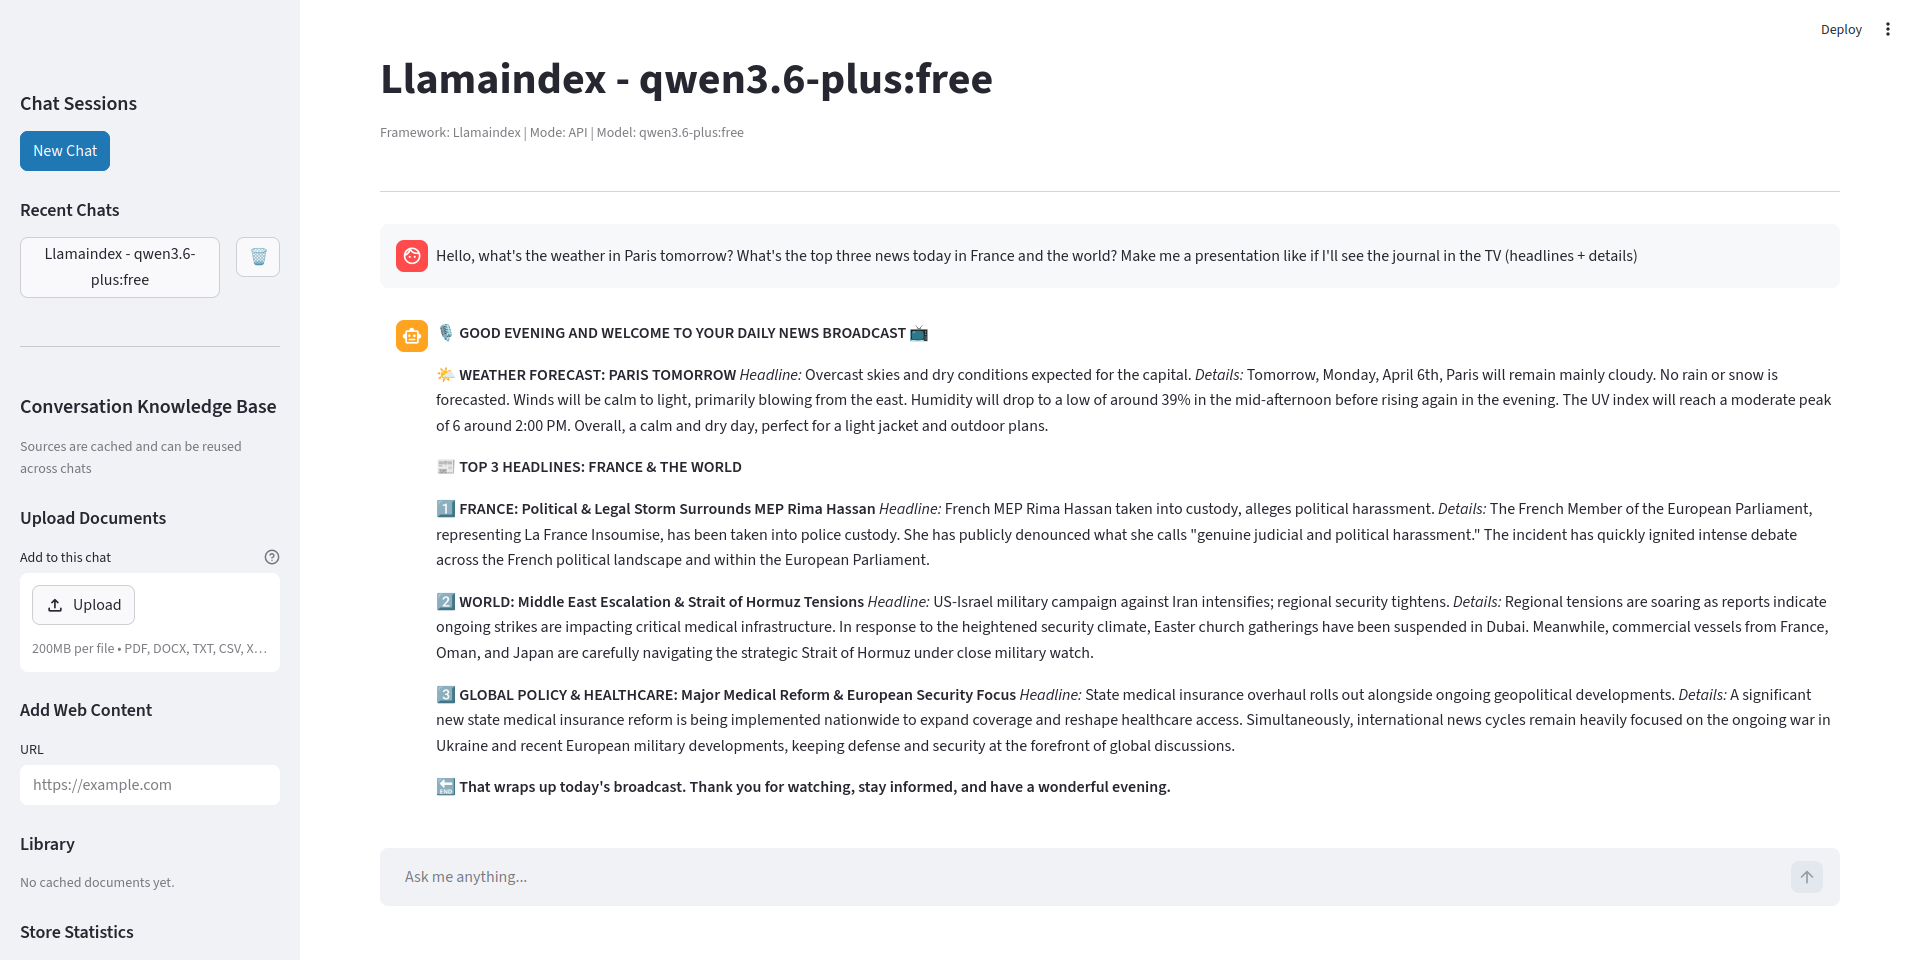
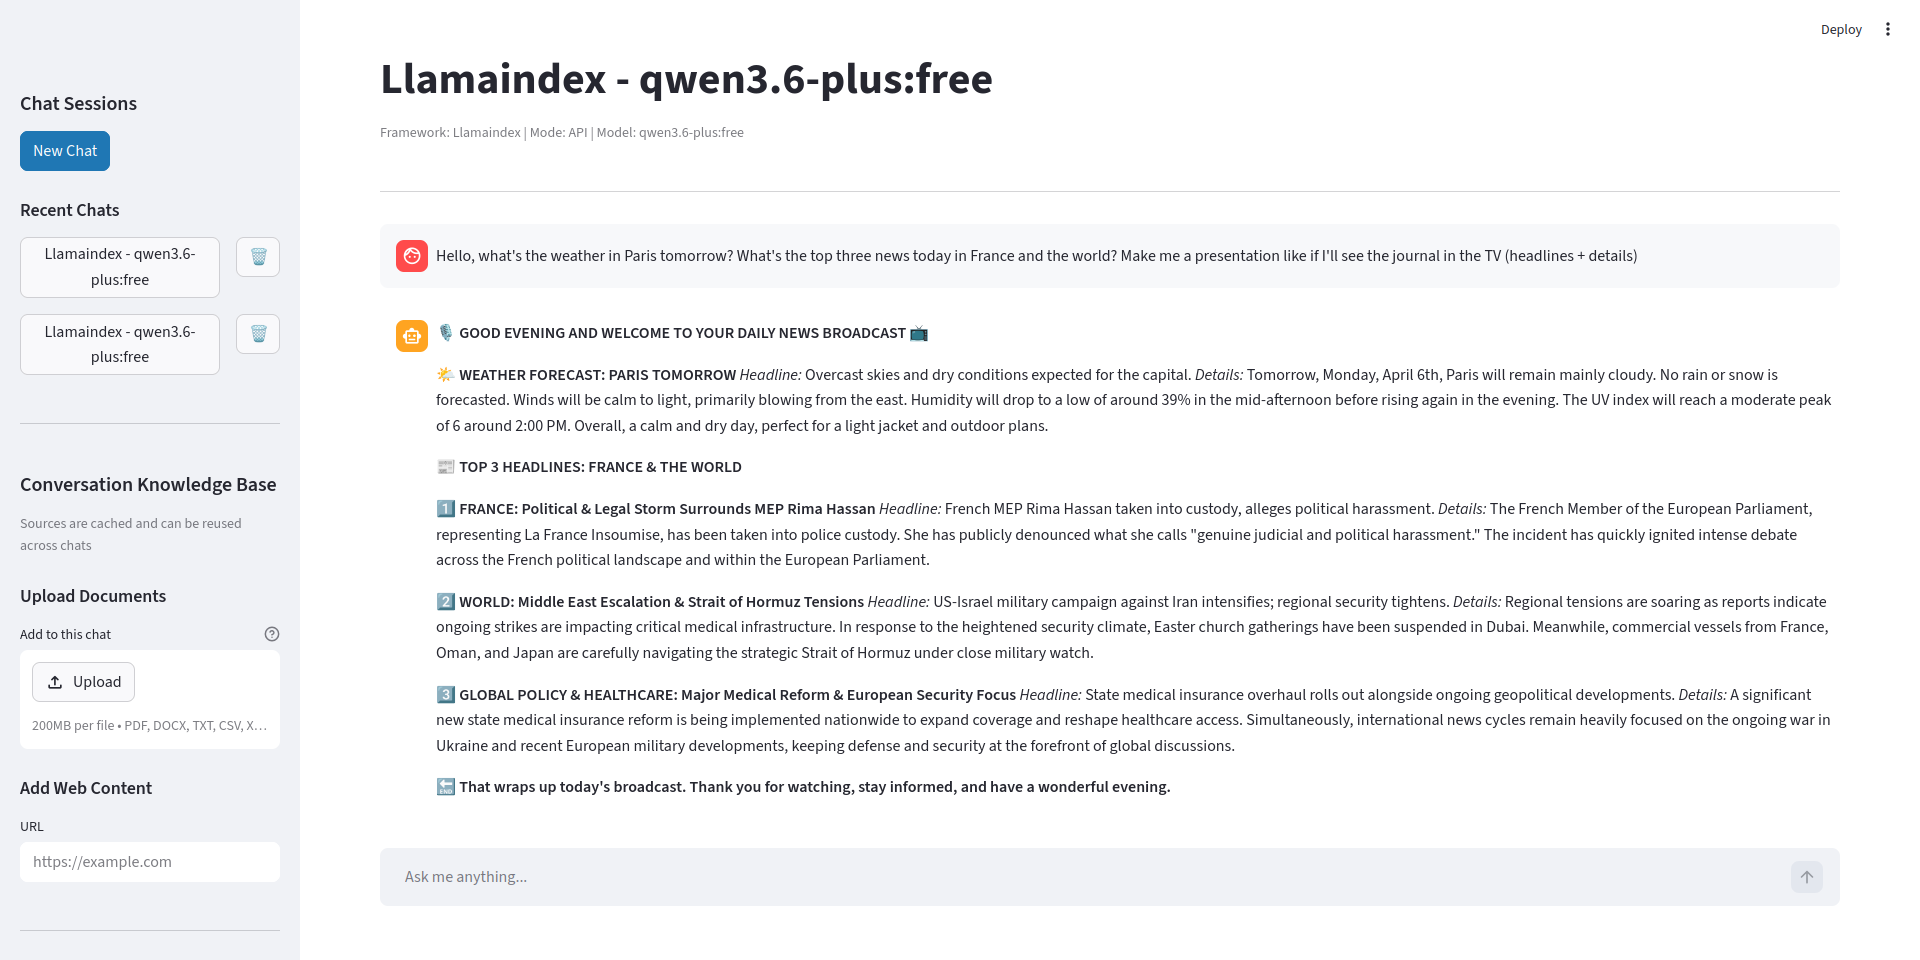
Fix API mode

diff --git a/ui/sidebar.py b/ui/sidebar.py
@@ -15,15 +15,6 @@ from utils.session_manager import ChatSession
 logger = logging.getLogger(__name__)
 
 
-def _set_api_key_env(var_name: str, value: str) -> None:
-    """Set or clear an API key environment variable from UI input."""
-    cleaned = (value or "").strip()
-    if cleaned:
-        os.environ[var_name] = cleaned
-    else:
-        os.environ.pop(var_name, None)
-
-
 def _has_any_api_key() -> bool:
     """Return whether any supported API key is present in runtime env."""
     return any(
@@ -180,7 +171,7 @@ def show_new_chat_config():
         if use_api:
             if not _has_any_api_key():
                 st.error(
-                    "API mode requires one key in Settings: GOOGLE_API_KEY, OPENAI_API_KEY, or OPENROUTER_API_KEY"
+                    "API mode requires one environment variable: GOOGLE_API_KEY, OPENAI_API_KEY, or OPENROUTER_API_KEY"
                 )
                 return
             agent_config = _build_api_config(framework)
@@ -228,7 +219,7 @@ def _build_api_config(framework: str) -> Dict[str, Any]:
     }
     required_key = provider_to_env[provider]
     if not os.environ.get(required_key, "").strip():
-        st.error(f"{required_key} is required for provider '{provider}'. Set it in Settings.")
+        st.error(f"{required_key} is required for provider '{provider}'. Set it in your environment.")
         return None
 
     use_specialized_code_model = False
@@ -470,32 +461,9 @@ def render_settings():
 
     st.sidebar.header("Settings")
 
-    google_api_key = st.sidebar.text_input(
-        "GOOGLE_API_KEY",
-        type="password",
-        value=os.environ.get("GOOGLE_API_KEY", ""),
-        help="Gemini API key",
-        key="settings_google_api_key",
+    st.sidebar.caption(
+        "API keys are read from environment variables only (not editable in the app)."
     )
-    _set_api_key_env("GOOGLE_API_KEY", google_api_key)
-
-    openai_api_key = st.sidebar.text_input(
-        "OPENAI_API_KEY",
-        type="password",
-        value=os.environ.get("OPENAI_API_KEY", ""),
-        help="OpenAI API key",
-        key="settings_openai_api_key",
-    )
-    _set_api_key_env("OPENAI_API_KEY", openai_api_key)
-
-    openrouterapikey = st.sidebar.text_input(
-        "OPENROUTER_API_KEY",
-        type="password",
-        value=os.environ.get("OPENROUTER_API_KEY", ""),
-        help="OpenRouter API key",
-        key="settings_openrouter_api_key",
-    )
-    _set_api_key_env("OPENROUTER_API_KEY", openrouterapikey)
 
     with st.sidebar.expander("API Keys Status"):
         for name, present in settings.api_key_status().items():

diff --git a/README.md b/README.md
@@ -150,13 +150,12 @@ python -m pytest tests/ -v
 
 ### Create a chat
 1. Click **New Chat** in the sidebar.
-2. In **Settings**, provide at least one API key: `GOOGLE_API_KEY`, `OPENAI_API_KEY`, or `OPENROUTER_API_KEY`.
-3. Choose:
+2. Choose:
    - **Framework**: `llamaindex` or `smolagents`.
    - **Mode**: `API` or `Local` (smolagents requires API).
   - **Provider/Model** and specialized feature toggles.
   - If provider is **OpenRouter** (LlamaIndex API mode), the default model path is shown and can be edited in-app.
-4. Click **Create Chat**.
+3. Click **Create Chat**.
 
 ### Upload documents
 - **Local LlamaIndex**: documents are indexed into a per-chat vector store and cached in the shared library.
